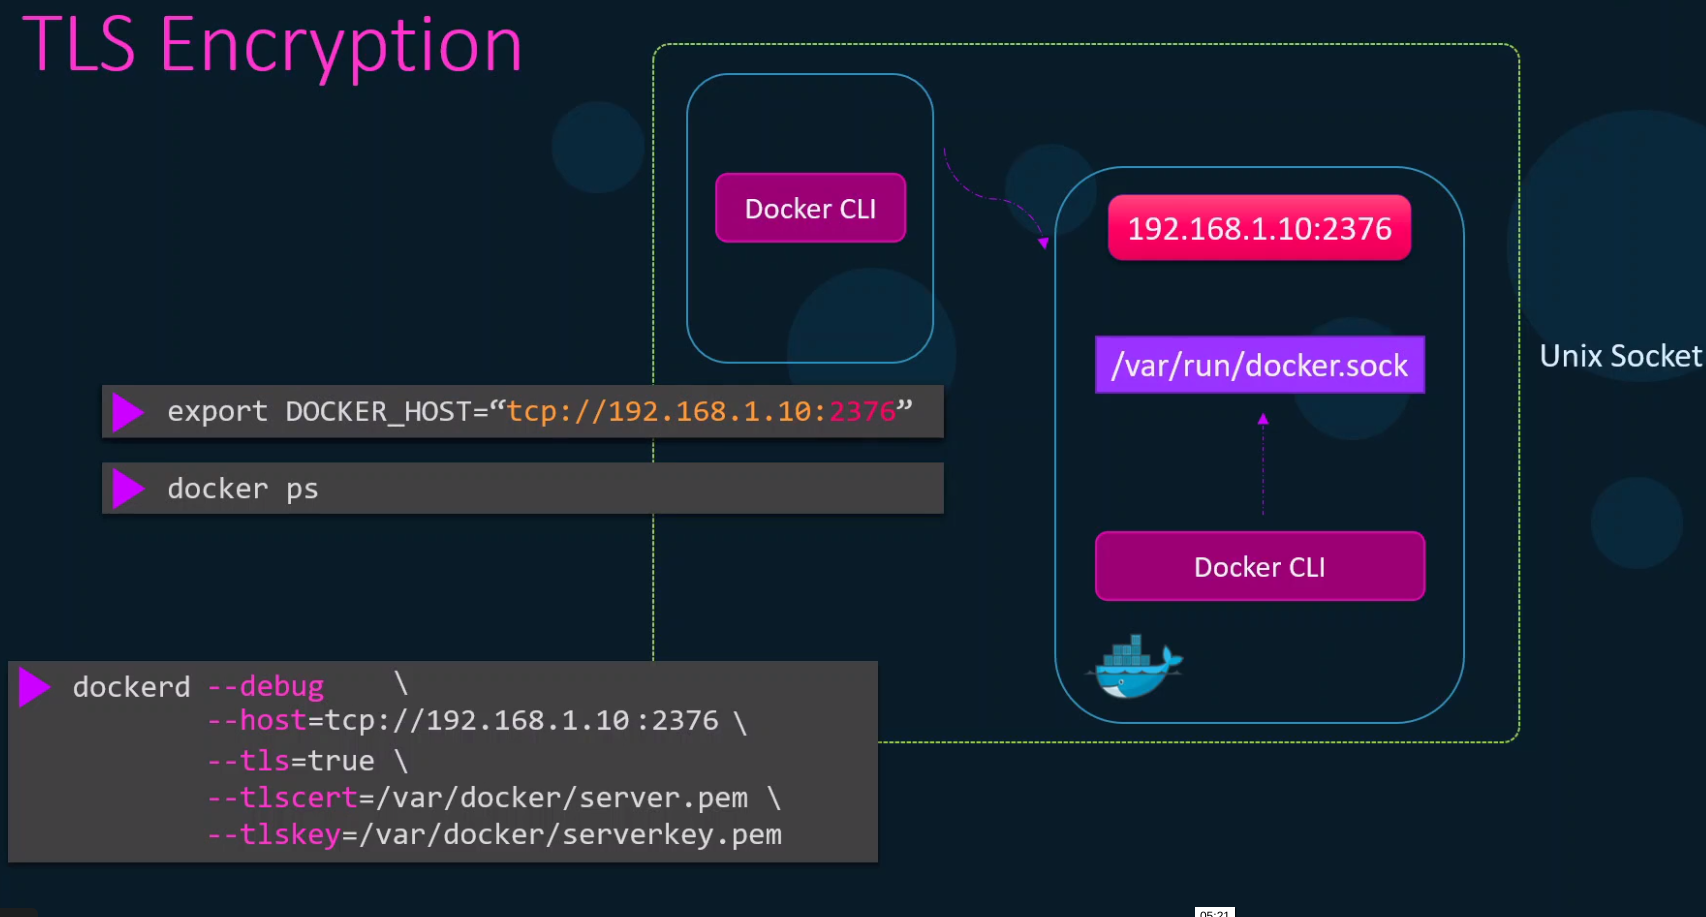
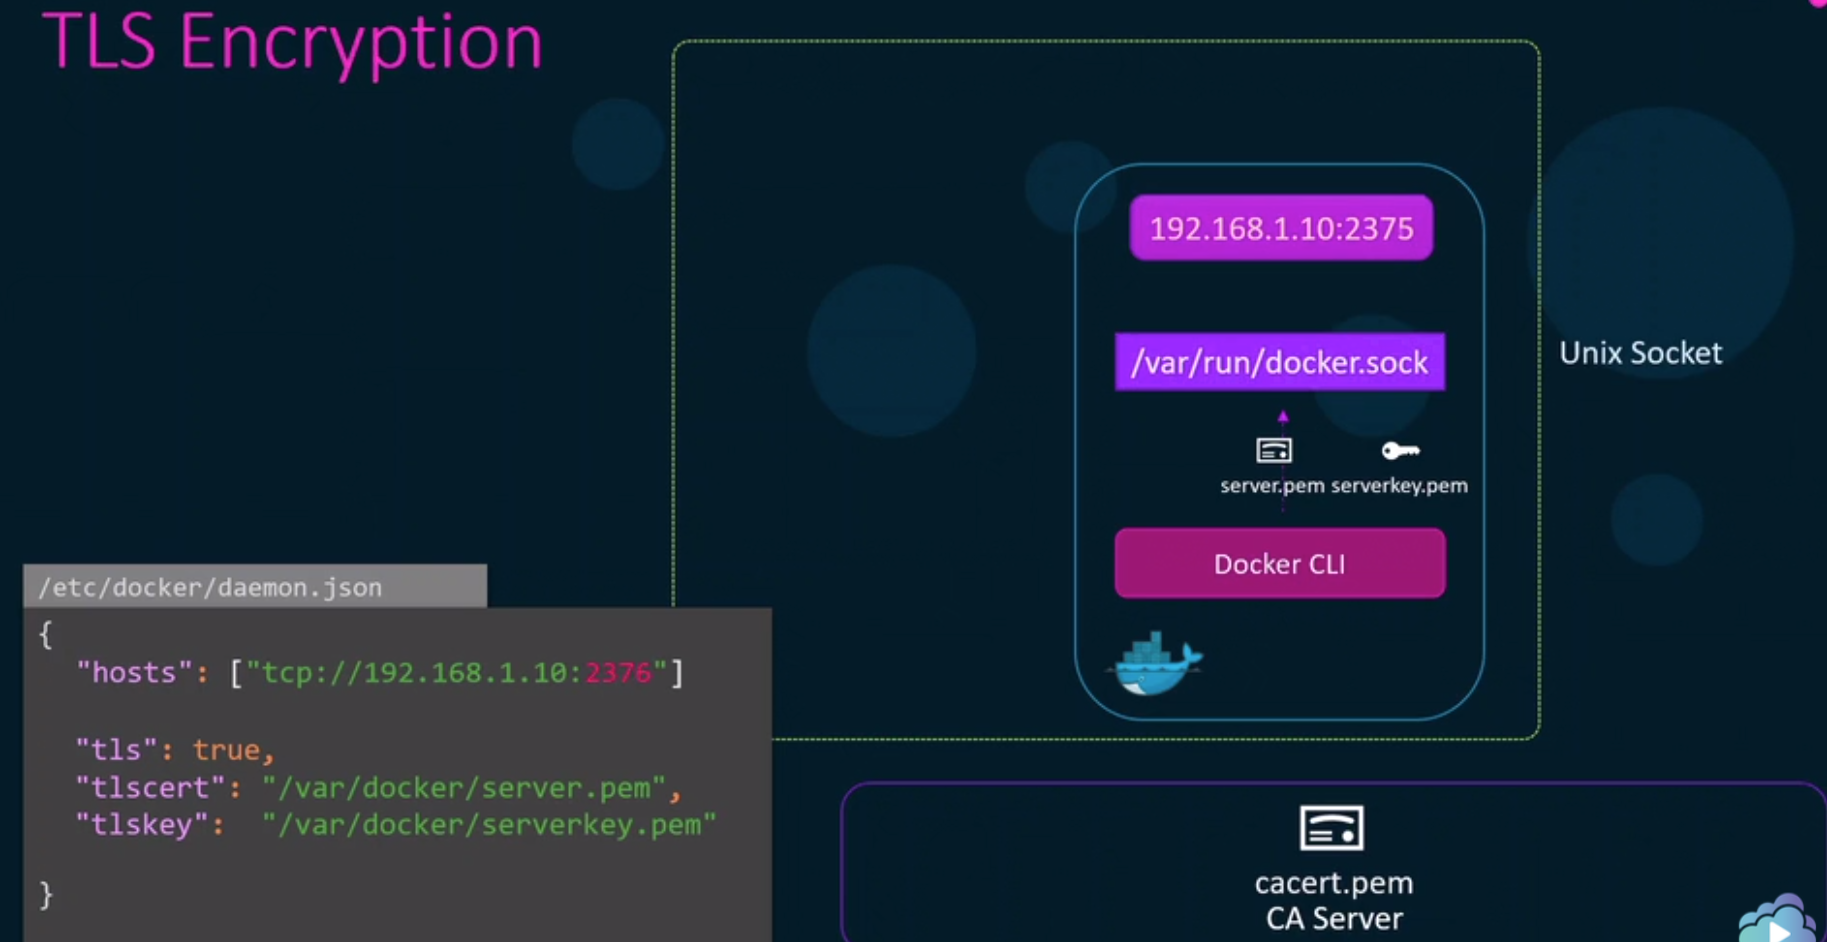
Docker daemon.

Changed region(s): [[0.0, 0.0, 1.0, 1.0], [0.0, 0.0, 0.3107, 0.0916], [0.3728, 0.0305, 0.8699, 0.0611]]

diff --git a/kubernetes/04.security/README.md b/kubernetes/04.security/README.md
@@ -27,8 +27,11 @@
     - [Network Policies](#network-policies)
     - [Ingress](#ingress)
     - [Docker](#docker)
-      - [Service Configuration](#service-configuration)
-      - [Daemon Security](#daemon-security)
+      - [Securing The Docker Daemon](#securing-the-docker-daemon)
+      - [System Service vs Daemon](#system-service-vs-daemon)
+      - [Unix Socket vs TCP/IP Socket](#unix-socket-vs-tcpip-socket)
+      - [TLS Encryption](#tls-encryption-1)
+      - [Client Certificates](#client-certificates)
 - [3) System Hardening](#3-system-hardening)
 - [4) Minimising Microservices Vulnerabilities](#4-minimising-microservices-vulnerabilities)
 - [5) Supply Chain Security](#5-supply-chain-security)
@@ -276,7 +279,17 @@ kubectl create ing my-ingress --rule="wear.example.com/wear*=wear-service:8080"
 
 ### Docker
 
-#### Service Configuration
+#### Securing The Docker Daemon
+
+The Docker Daemon needs to be secured because anyone with access to it can:
+* Delete any Docker object, e.g. containers or volumes.
+* Create any Docker objects, e.g. container with a cryptominer.
+* Run a privileged container and gain root access to the CRE host.
+
+The host running the Docker Daemon needs securing as well. See (System Hardening)[#3-system-hardening]
+
+
+#### System Service vs Daemon
 
 The Docker daemon can be installed as a system service. You could also just run Docker daemon commands as well.
 
@@ -292,11 +305,15 @@ dockerd
 dockerd --debug
 ```
 
+#### Unix Socket vs TCP/IP Socket
+
 The Docker Daemon listens on a Unix socket at `/var/run/docker.sock`. A [Unix socket](https://serverfault.com/a/124518) is an inter-process communication mechanism that allows bidirectional data exchange between processes running on the same machine. This means the Docker Daemon is only accessible on the same host.
 
 ![images/docker-daemon-1.png](images/docker-daemon-1.png)
 
-If you bound it to a IP socket via the host's network interface it would be accessible on the network. [IP sockets](https://serverfault.com/a/124518), especially TCP/IP sockets, are a mechanism allowing communication between processes over the network. In some cases you can use TCP/IP sockets to talk with processes running on the same computer by using the loopback interface.
+[IP sockets](https://serverfault.com/a/124518), especially TCP/IP sockets, are a mechanism allowing communication between processes over the network. In some cases you can use TCP/IP sockets to talk with processes running on the same computer by using the loopback interface.
+
+If you bound the Docker Daemon to an IP socket via the host's network interface it would be accessible on the network via anyone who can access that network interface. Do not do this over a public facing interface otherwise the public can access it.
 
 ```bash
 # Start Docker Daemon listening on a TCP/IP socket
@@ -304,19 +321,26 @@ If you bound it to a IP socket via the host's network interface it would be acce
 dockerd --host=tcp://$LOCAL_IP:2375
 ```
 
-The other host needs to use `DOCKER_HOST=tcp://$LOCAL_IP:2375` so its docker commands are sent to the external Docker Daemon.
+The other host needs to use `DOCKER_HOST=tcp://$LOCAL_IP:2375` so its docker commands are sent to the external Docker Daemon. Or use the equivalent `docker` command options.
 
 ![images/docker-daemon-2.png](images/docker-daemon-2.png)
 
-Exposing the Docker Daemon on a TCP/IP socket is a security risk as by default Docker has no authentication mechanism and no encryption. You can see up TLS with:
+Exposing the Docker Daemon on a TCP/IP socket is a security risk as by default Docker has no authentication mechanism and no encryption.
+
+#### TLS Encryption
+
+You can see up TLS with:
 
 ```bash
 # 2376 is the standard Docker port using encryption.
-dockerd --host=tcp://$LOCAL_IP:2376 \
+dockerd --host=tcp://$LOCAL_IP:2376
+# enable encryption
 --tls=true \
 --tlscert=/var/docker/server.crt \
 --tlskey=/var/docker/server.key
 ```
+
+The other host needs to use `DOCKER_HOST=tcp://$LOCAL_IP:2376` and `DOCKER_TLS=true` so its docker commands are sent to the external Docker Daemon using encryption. Or use the equivalent `docker` command options.
 
 ![images/docker-daemon-3.png](images/docker-daemon-3.png)
 
@@ -326,7 +350,25 @@ You can place Docker Daemon command line options into a JSON configuration file 
 
 This configuration file is also read when you start the Docker Daemon as a system service.
 
-#### Daemon Security
+#### Client Certificates
+
+You can set up TLS client authentication with:
+
+```bash
+# 2376 is the standard Docker port using encryption.
+dockerd --host=tcp://$LOCAL_IP:2376 \
+# enable encryption
+--tls=true \
+--tlscert=/var/docker/server.crt \
+--tlskey=/var/docker/server.key \
+# enable client certificates
+--tlsverify=true
+--tlscacert=/var/docker/ca.cert
+```
+
+![images/docker-daemon-5.png](images/docker-daemon-5.png)
+
+The client certificate can be supplied via the `docker` command option or placed into `~/.docker`. These client certificates must be signed by the Docker CA certificate.
 
 # 3) System Hardening
 
